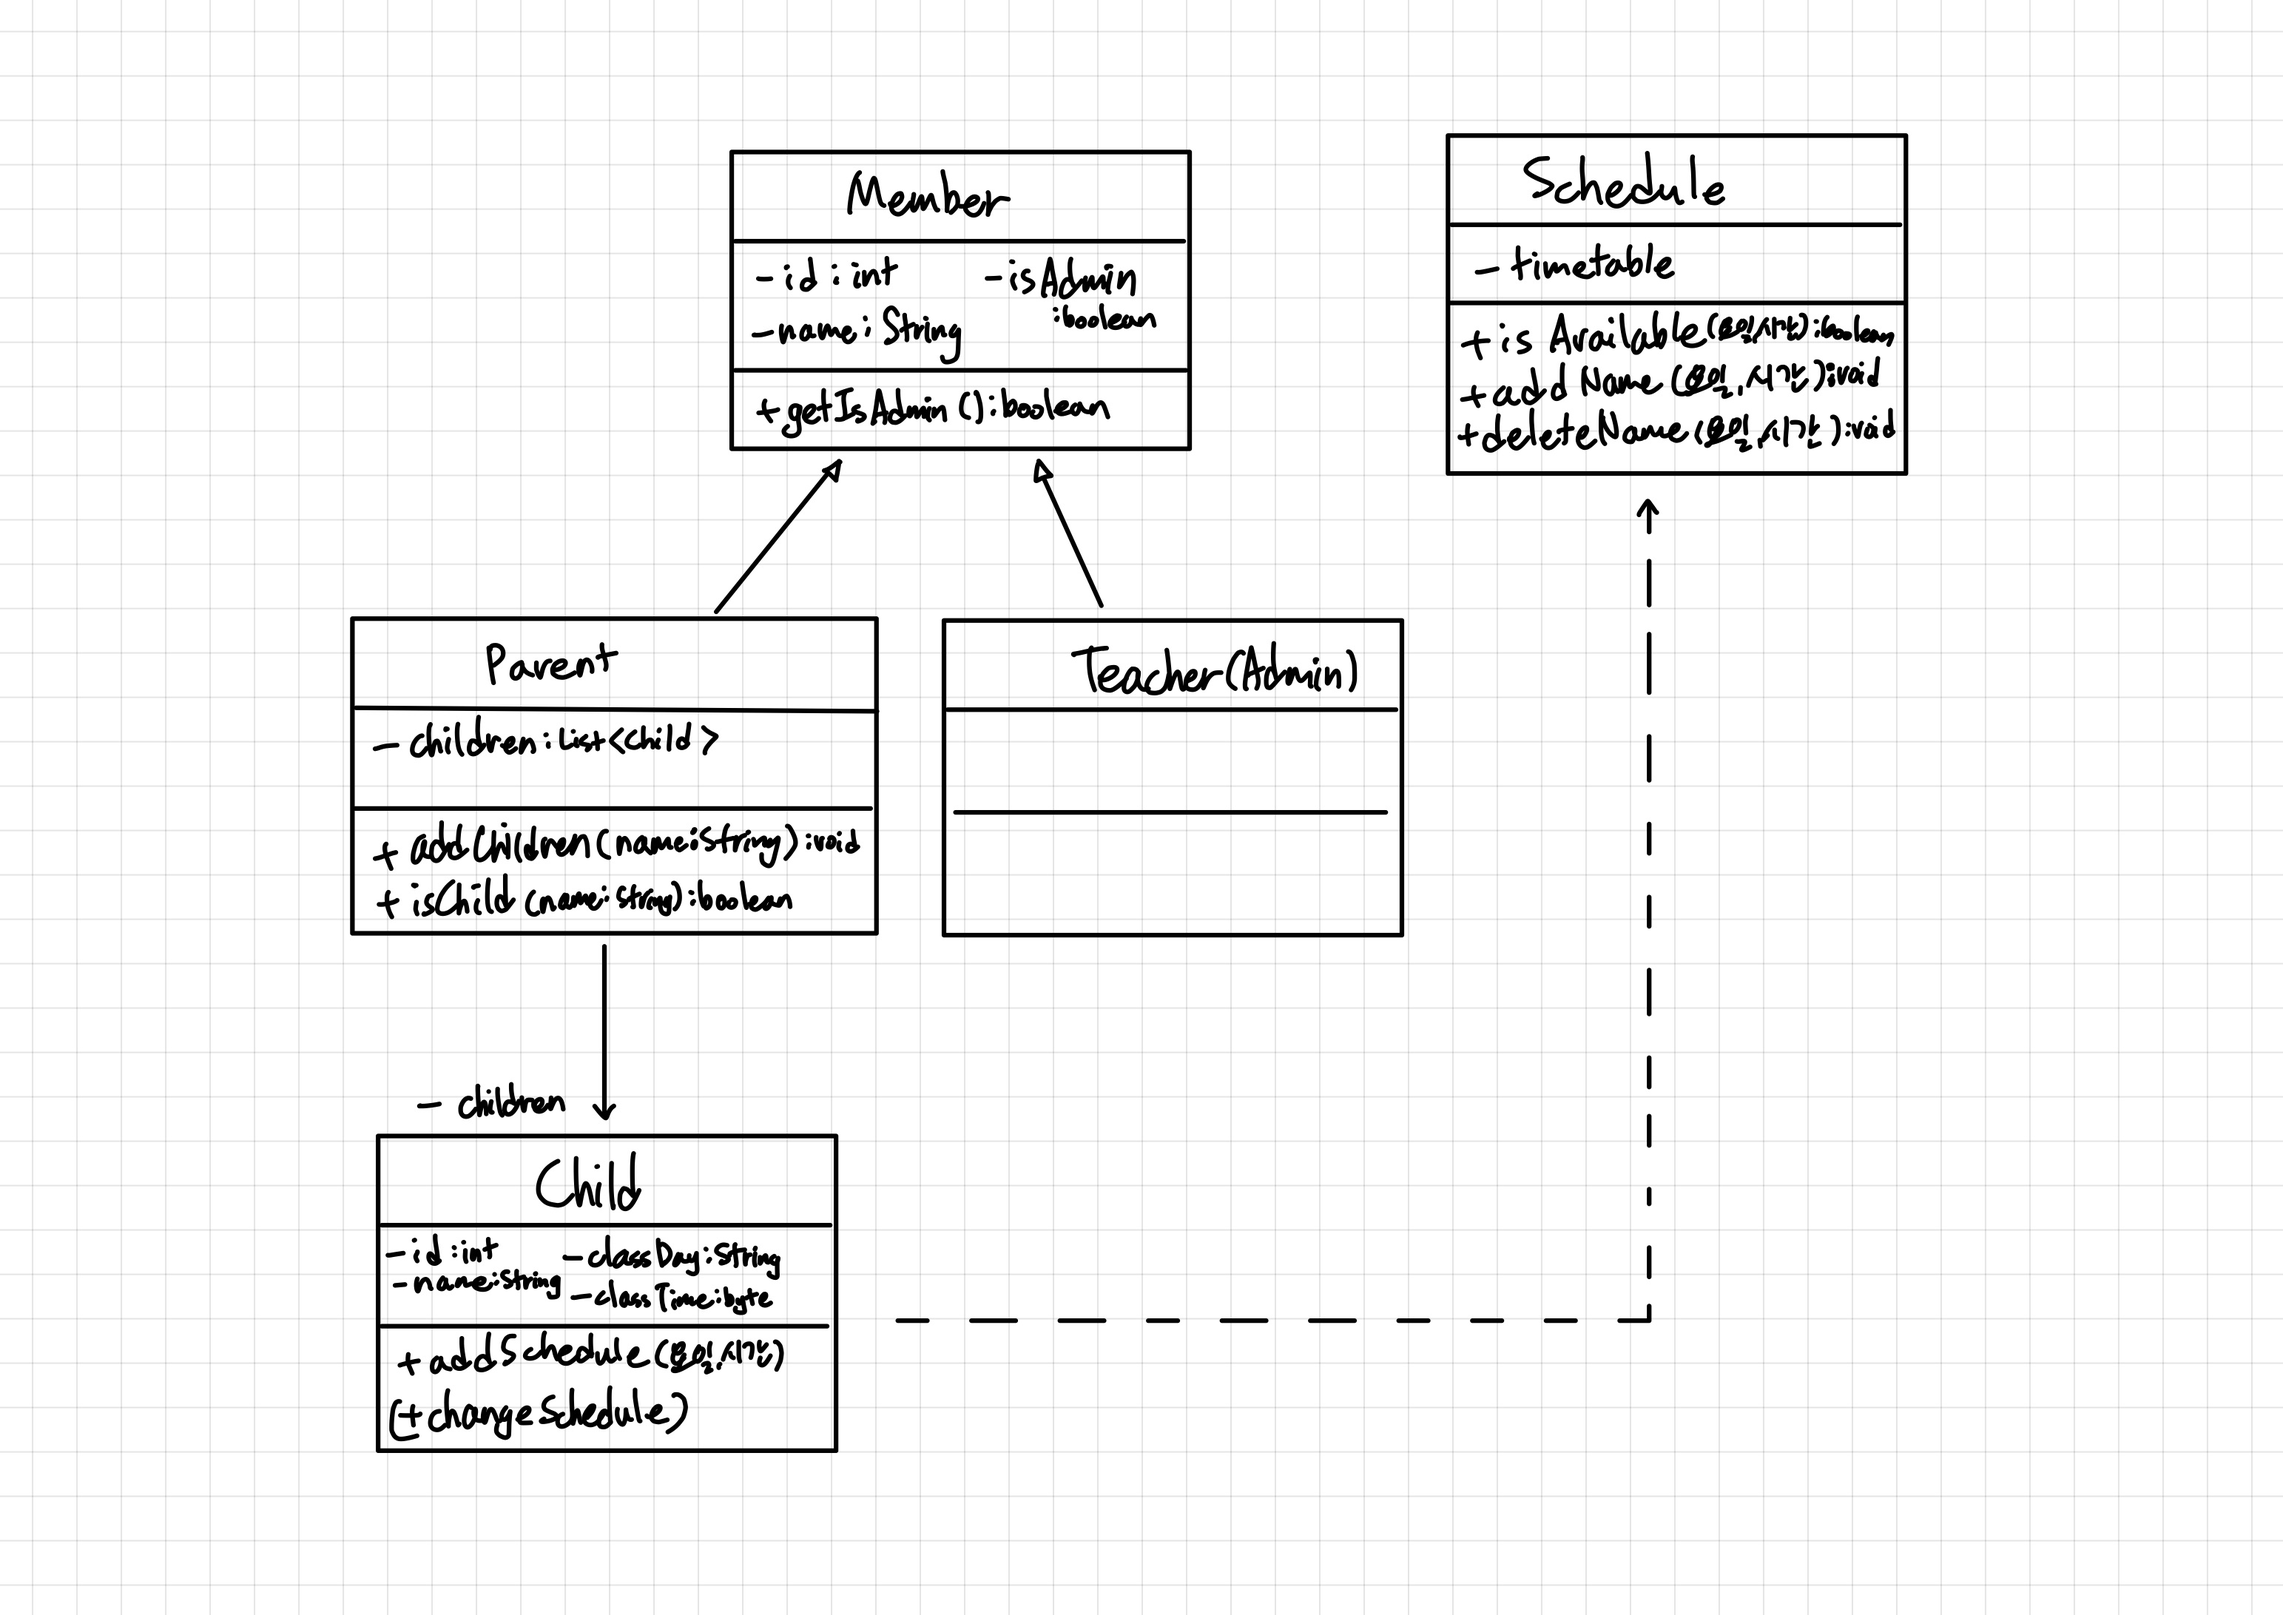
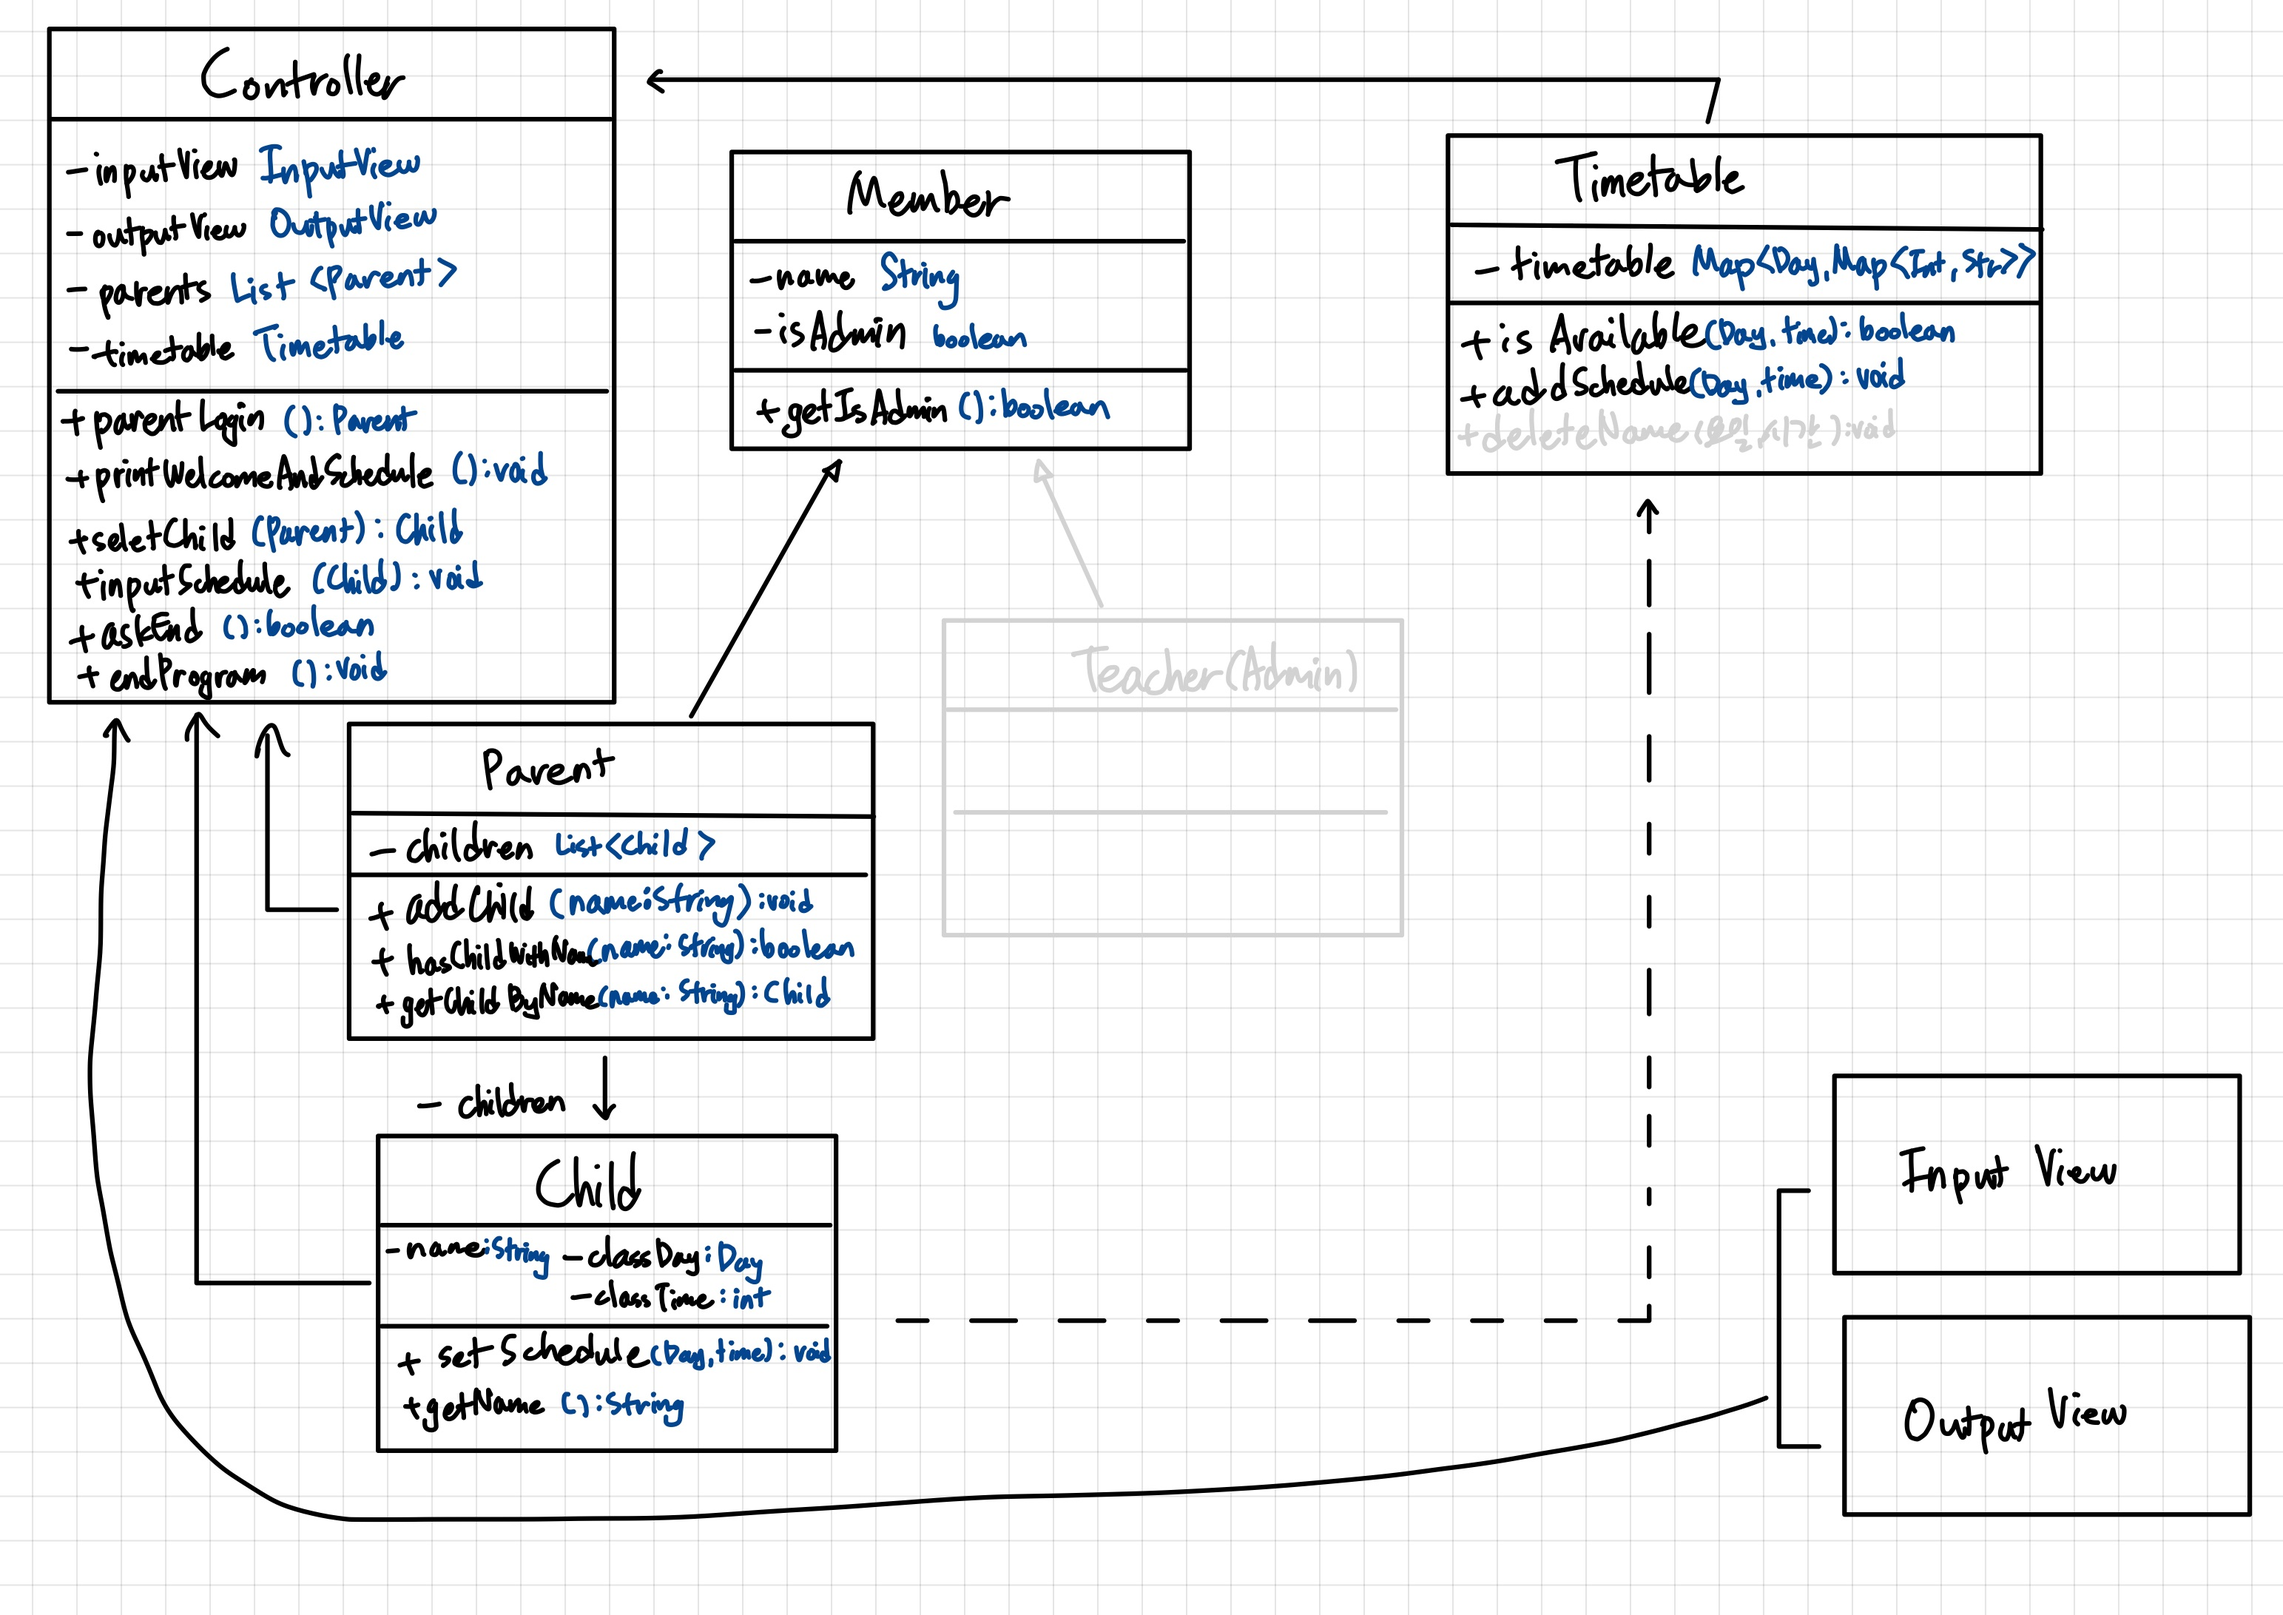
docs: 클래스 다이어그램 추가

diff --git a/README.md b/README.md
@@ -41,8 +41,10 @@
 - 관리자인지 물어보고, 관리자의 경우 시간표 수정도 가능하도록...
 
 ## 클래스 다이어그램
-TODO : 수정하기!!!
+### 기획단계의 다이어그램
+![classDiagram.jpg](image/classDiagram_draft.jpg)
 
+### 구현 후 다시 작성한 다이어그램
 ![classDiagram.jpg](image/classDiagram.jpg)
 
 ## 예시 출력
